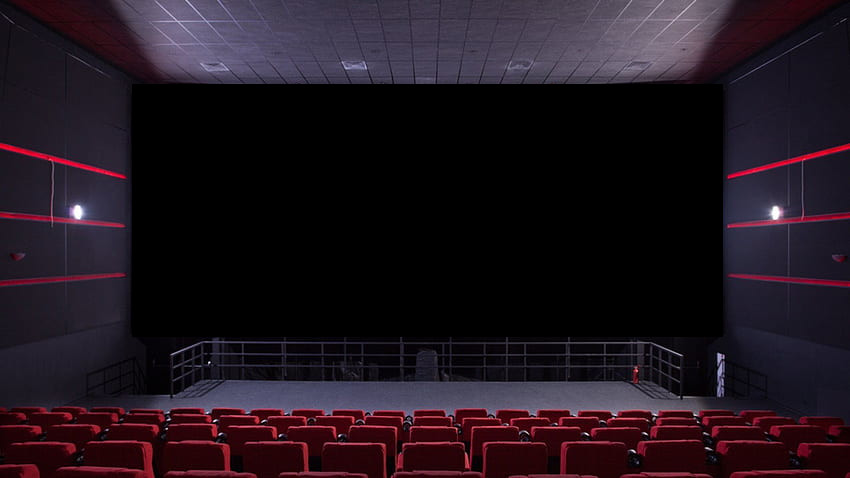
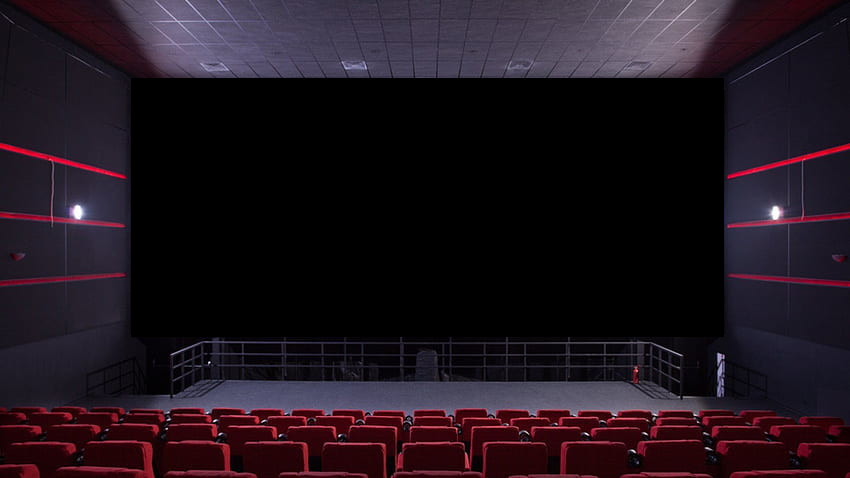
size

Changed region(s): [[0.1835, 0.1464, 0.8259, 0.1757]]

diff --git a/flutter_service_worker.js b/flutter_service_worker.js
@@ -3,8 +3,8 @@ const MANIFEST = 'flutter-app-manifest';
 const TEMP = 'flutter-temp-cache';
 const CACHE_NAME = 'flutter-app-cache';
 const RESOURCES = {
-  "index.html": "3a63a2a9c99337069ccf73ae5d542505",
-"/": "3a63a2a9c99337069ccf73ae5d542505",
+  "index.html": "9022d7a0510515111765a7931b05084a",
+"/": "9022d7a0510515111765a7931b05084a",
 "manifest.json": "eb83fcbcb2904702dbfd8df90b1fa541",
 "version.json": "57c62549eebdff80b8da8ec68bc7e464",
 "icons/Icon-maskable-192.png": "c457ef57daa1d16f64b27b786ec2ea3c",
@@ -31,7 +31,7 @@ const RESOURCES = {
 "assets/assets/images/background46.jpg": "0c7fe8fa5262d6db2991b14df7835f96",
 "assets/assets/images/backgroundmovie.jpg": "db401aa49039e9a37df2de977e08305b",
 "assets/assets/images/background36.jpg": "919ab5e6bd910a52c76575cd9b3cbaa6",
-"assets/assets/images/backgroundmovie2.jpg": "ab6d82b4feac4db046f6d2c972f808a0",
+"assets/assets/images/backgroundmovie2.jpg": "669e25d32def4faf92ea568a39e28983",
 "assets/assets/images/background18.jpg": "259dc6474840b343db638281bf84692d",
 "assets/assets/images/background45.jpg": "d57fe497eca8813e9caf4e93320146e7",
 "assets/assets/images/background34.jpg": "98a4b1828fbba4f0ffb046a8fd3b76af",
@@ -58,7 +58,7 @@ const RESOURCES = {
 "assets/fonts/MaterialIcons-Regular.otf": "e7069dfd19b331be16bed984668fe080",
 "assets/AssetManifest.json": "8bb081dc5f822b56bb6a8d040799d4cb",
 "assets/NOTICES": "99e10e6576e27991ec6739d5137e9df8",
-"main.dart.js": "bdb1bcf5164ab96125055241ea9a0375",
+"main.dart.js": "a44c3b26d254f0751b556e8638a47849",
 "flutter.js": "a85fcf6324d3c4d3ae3be1ae4931e9c5",
 "favicon.png": "5dcef449791fa27946b3d35ad8803796",
 "canvaskit/canvaskit.js": "97937cb4c2c2073c968525a3e08c86a3",

diff --git a/main.dart.js b/main.dart.js
@@ -54321,7 +54321,7 @@ var $async$jE=A.Y(function(a,b){if(a===1)return A.U(b,r)
 while(true)switch(s){case 0:q.aa(new A.a3A(q))
 p=B.bK.mQ(40)
 o=A.a([27],t.t)
-p="https://api.themoviedb.org/3/discover/movie?api_key=495ca036d43fc6eba47e1e3bca54473b&language=en-US&sort_by=popularity.desc&include_adult=true&include_video=false&primary_release_year="+(1970+p)+"&with_genres="
+p="https://api.themoviedb.org/3/discover/movie?api_key=495ca036d43fc6eba47e1e3bca54473b&language=en-US&sort_by=popularity.desc&include_adult=true&include_video=false&primary_release_year="+(1980+p)+"&with_genres="
 s=2
 return A.a4(A.af5(A.fn(p+B.b.b0(o,","),0,null)),$async$jE)
 case 2:n=b
@@ -57135,7 +57135,7 @@ B.cB=new A.mp(1,"low")
 B.xp=new A.pv(B.un,B.jB)
 B.ag=new A.x6(0,"rectangle")
 B.uH=new A.dE(null,B.xp,null,null,null,null,B.ag)
-B.uI=new A.p1(1,"contain")
+B.uI=new A.p1(4,"fitHeight")
 B.jC=new A.p1(6,"scaleDown")
 B.uJ=new A.M_(0,"tight")
 B.uK=new A.x6(1,"circle")
